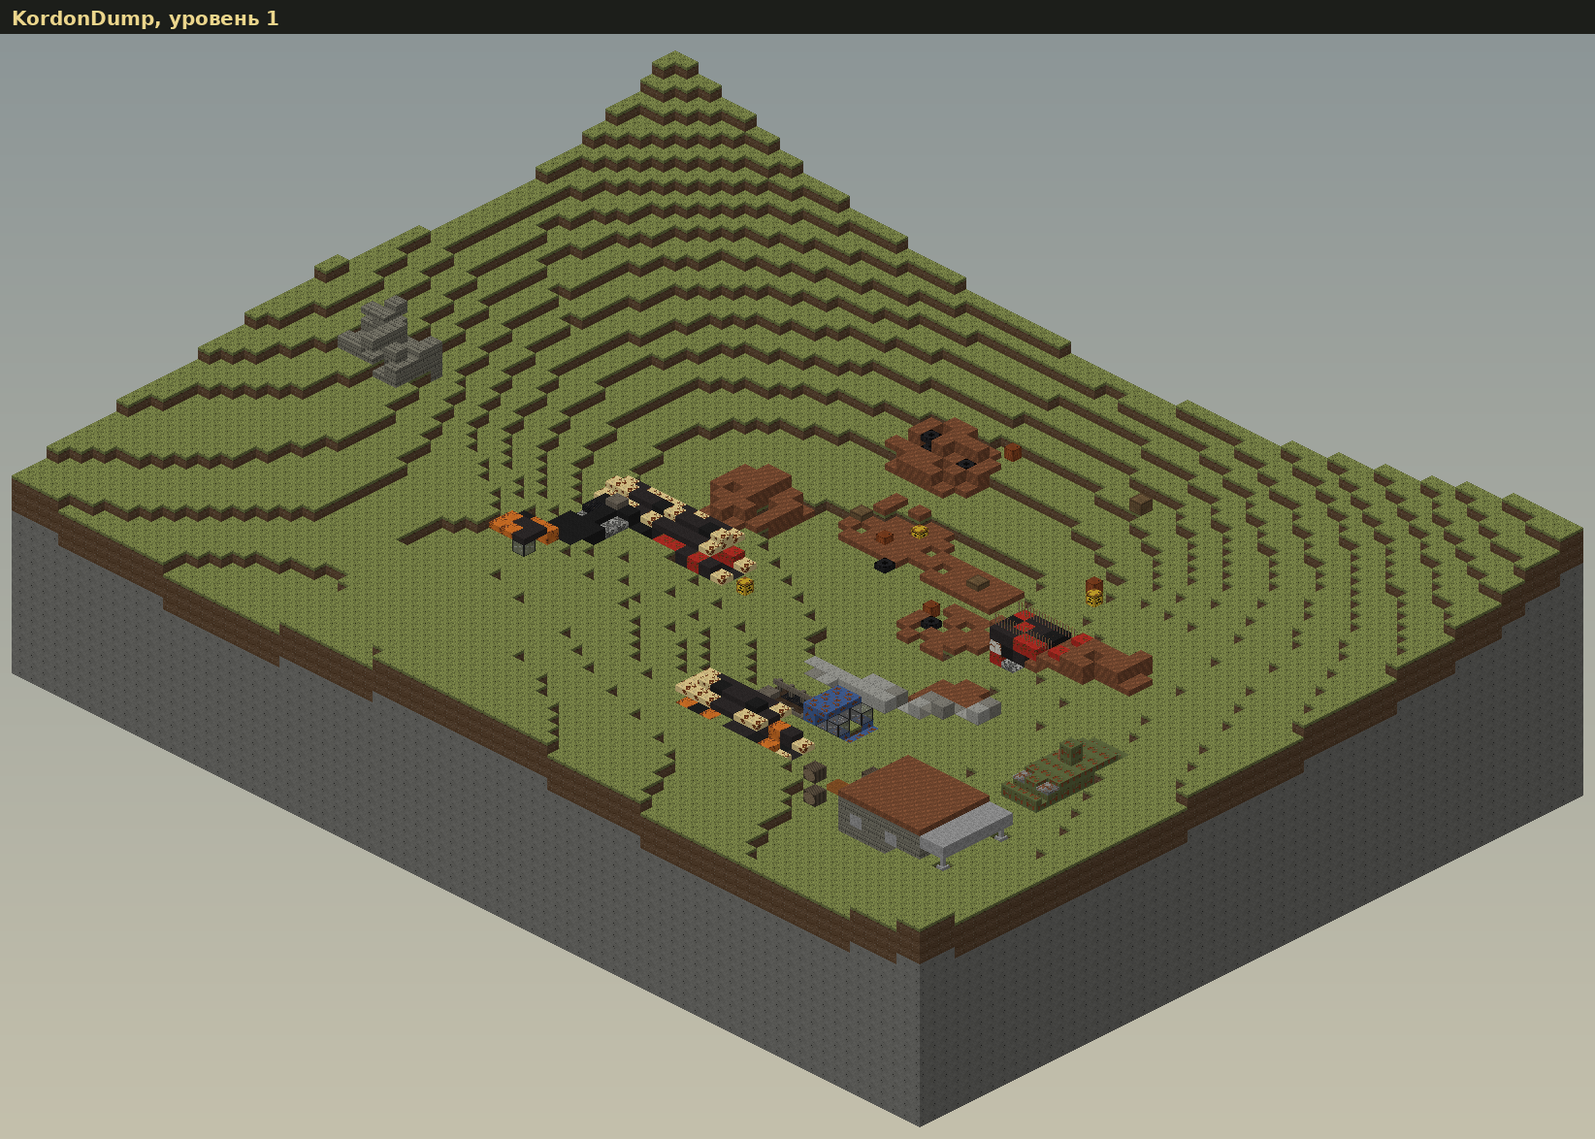
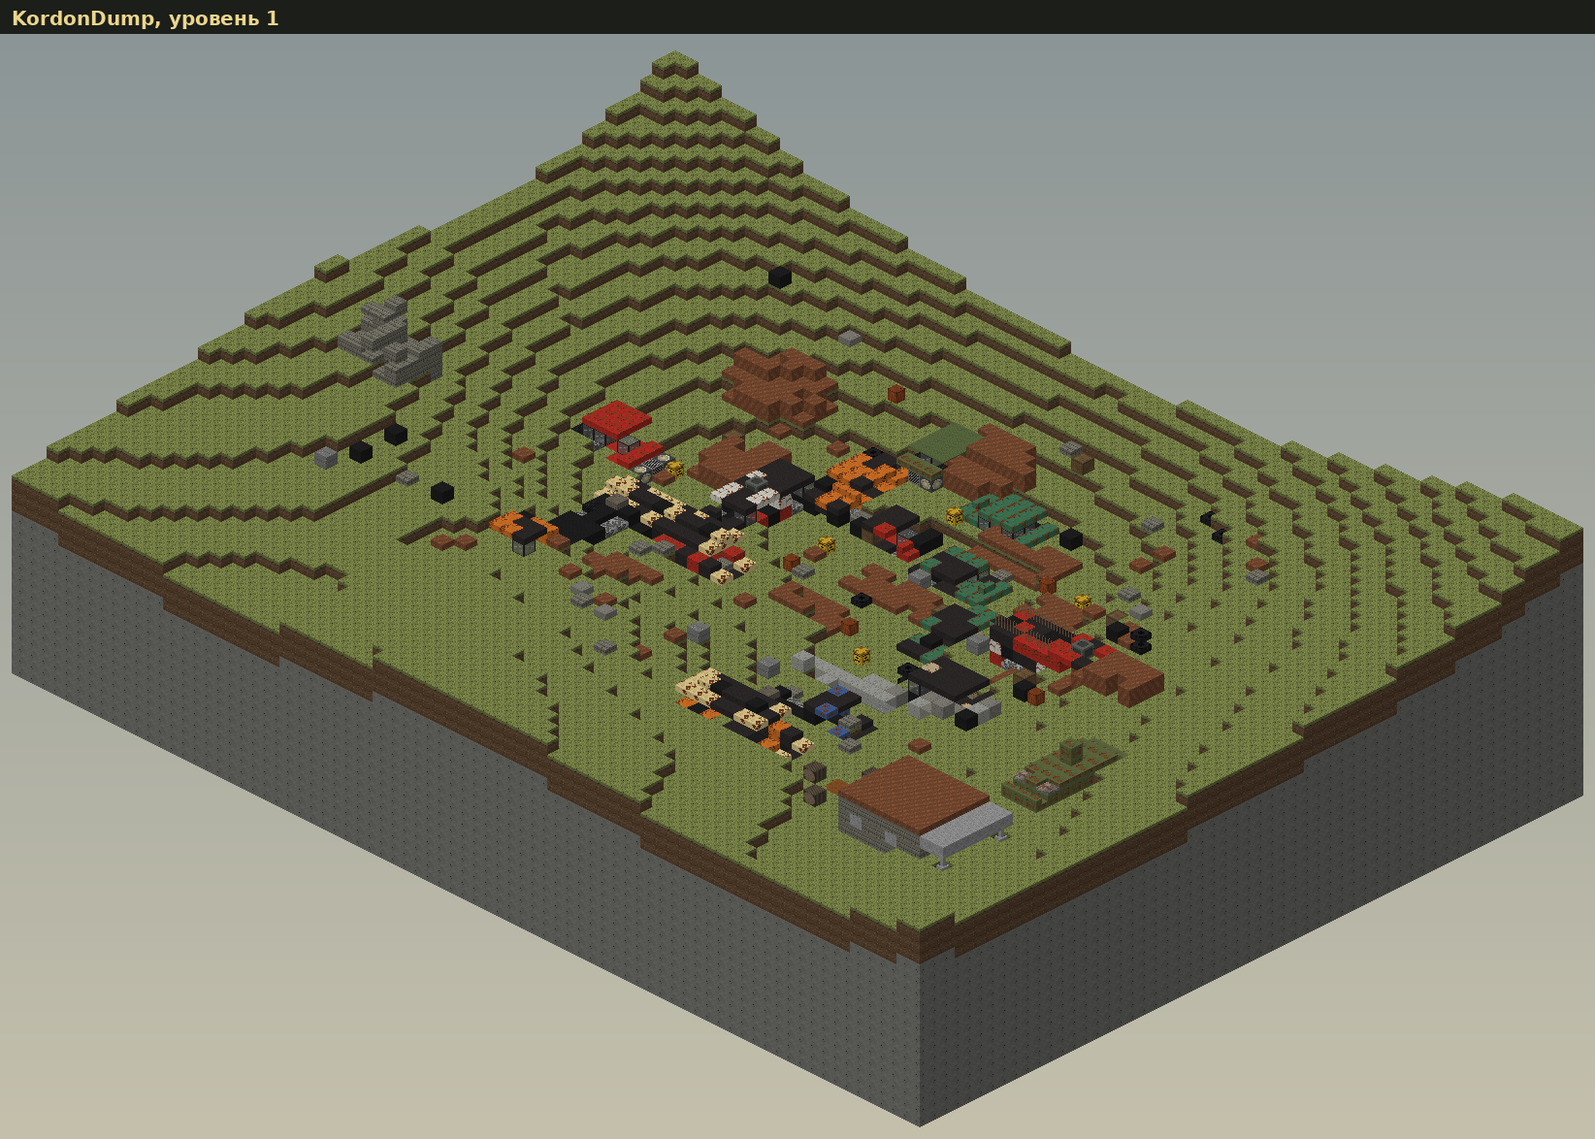
О12: у свалки нет уровней — детализация (15 остовов, мусор, бочки), уровни только у заставы
Claude-Session: https://claude.ai/code/session_01DZytqtgNmvhRRD3mvzLVqe

diff --git a/src/main/java/ru/stalkerzone/zonemap/build/KordonDump.java b/src/main/java/ru/stalkerzone/zonemap/build/KordonDump.java
@@ -14,8 +14,9 @@ import java.util.List;
  * остовы по следам обмера, кучи, бетонную полосу, бочки и шины на дне чаши, барак заставы с нарами, костёр,
  * вышку и мешки. Рельеф чаши и плато дна — дело площадки (узел 20, у «Программиста»): сборщик берёт землю у {@code ground}.
  *
- * <p>Уровень развития: 0 — брошенная стоянка (выбитые окна, без двери и света, костёр потушен), 1 — застава
- * (барак обжит), 2 — пост (мешки, тент), 3 — укрепление (вышка и колючка по краю).
+ * <p>У свалки уровней развития нет — это аномальная зона, она одинакова всегда и просто детализирована. Уровень
+ * (0–3) касается только заставы О12: 0 — брошенная стоянка (выбитые окна, без двери и света, костёр потушен),
+ * 1 — застава (барак обжит), 2 — пост (мешки), 3 — укрепление (вышка и колючка по краю).
  */
 public final class KordonDump {
     private KordonDump() {}
@@ -41,6 +42,9 @@ public final class KordonDump {
     /** Вышка на восточном краю чаши (уровень 3). */
     public static final int TX = -6, TZ = -102;
 
+    /** Обход по краю чаши. */
+    static final int[][] PATROL = {{-20, -106}, {-20, -92}, {-8, -91}, {-4, -98}, {-28, -128}};
+
     private static int hash(int x, int y, int z) {
         int h = x * 0x27d4eb2d ^ y * 0x61c88647 ^ z * 0x165667b1;
         h ^= h >>> 15; h *= 0x2c1b3c6d; h ^= h >>> 12;
@@ -50,37 +54,41 @@ public final class KordonDump {
     /** Построить свалку и заставу. Блоки — в мировых координатах. */
     public static void build(BlockSink b, int lvl) {
         lvl = Math.max(0, Math.min(3, lvl));
-        wrecks(b, lvl);
-        piles(b, lvl);
-        concreteStrip(b, lvl);
+        scatter(b);                 // мелочь первой — крупное (остовы, кучи) ставится поверх
         junk(b);
+        concreteStrip(b);
+        piles(b);
+        wrecks(b);
         hut(b, lvl);
         camp(b, lvl);
         if (lvl >= 2) bags(b);
         if (lvl >= 3) { tower(b); wire(b); }
-        for (int[] p : new int[][] {{-20, -106}, {-20, -92}, {-8, -91}, {-4, -98}, {-28, -126}})
+        for (int[] p : PATROL)
             b.mark("patrol", p[0], b.ground(p[0], p[1]) + 1, p[1]);
     }
 
     static int g(BlockSink b, int x, int z) { return b.ground(x, z); }
 
     /** Остовы по следам обмера: тип техники, центр, куда смотрит нос (0 — на +x, 90 — на +z), повреждение. */
-    private static void wrecks(BlockSink b, int lvl) {
+    private static void wrecks(BlockSink b) {
         Object[][] w = {
                 {"laz", -49, -115, 0, 2}, {"kamaz", -52, -108, 90, 2}, {"paz", -27, -99, 0, 2},
-                {"zil", -26, -104, 0, 1}, {"btr", -8, -107, 90, 1}, {"zil_fire", -20, -119, 0, 2}};
+                {"zil", -26, -104, 0, 2}, {"btr", -8, -107, 90, 1}, {"zil_fire", -20, -119, 0, 2},
+                {"raf", -49, -122, 90, 2}, {"zhiguli", -34, -125, 0, 2}, {"moskvich", -30, -120, 90, 2},
+                {"zaporozhets", -41, -126, 0, 2}, {"uaz", -44, -133, 90, 1}, {"niva", -23, -113, 0, 2},
+                {"tractor", -58, -120, 0, 1}, {"zhiguli", -37, -131, 180, 1}, {"moskvich", -46, -128, 270, 2}};
         long seed = 7000;
         for (Object[] o : w) {
             int x = (Integer) o[1], z = (Integer) o[2];
-            B v = new B(b, x, z, (Integer) o[3], seed++, lvl);
+            B v = new B(b, x, z, (Integer) o[3], seed++, 2);
             Vehicles.vehicle(v, (String) o[0], 0, 0, 0, null, (Integer) o[4]);
         }
     }
 
     /** Кучи ржавого листа (обмер: высота 1–2): центр, радиусы, высота. Сверху — полублок. */
-    private static void piles(BlockSink b, int lvl) {
-        int[][] p = {{-44, -133, 3, 2, 2}, {-49, -122, 2, 3, 2}, {-34, -125, 3, 1, 1}, {-30, -120, 3, 2, 1},
-                {-17, -119, 4, 1, 2}, {-23, -113, 2, 1, 1}, {-41, -126, 3, 2, 1}};
+    private static void piles(BlockSink b) {
+        int[][] p = {{-41, -134, 3, 2, 2}, {-52, -124, 2, 2, 2}, {-33, -129, 3, 1, 1}, {-36, -121, 3, 1, 1},
+                {-14, -118, 3, 1, 2}, {-26, -125, 2, 1, 1}, {-47, -108, 1, 2, 1}, {-38, -116, 2, 1, 1}, {-56, -131, 3, 2, 2}};
         for (int[] q : p) for (int x = q[0] - q[2]; x <= q[0] + q[2]; x++) for (int z = q[1] - q[3]; z <= q[1] + q[3]; z++) {
             double d = Math.pow((x - q[0]) / (double) (q[2] + 1), 2) + Math.pow((z - q[1]) / (double) (q[3] + 1), 2);
             if (d > 1 || hash(x, 3, z) % 5 == 0) continue;
@@ -96,20 +104,21 @@ public final class KordonDump {
     }
 
     /** Бетонная полоса (обмер: x −33..−18, z −111..−110, высота 1): сломанные плиты, проходы через каждые 5 блоков. */
-    private static void concreteStrip(BlockSink b, int lvl) {
+    private static void concreteStrip(BlockSink b) {
         for (int x = -33; x <= -18; x++) {
             if (Math.floorMod(x, 5) == 0) continue;
             for (int z = -111; z <= -110; z++) {
-                if (hash(x, 7, z) % (lvl == 0 ? 3 : 7) == 0) continue;
+                if (hash(x, 7, z) % 5 == 0) continue;
                 b.set(x, g(b, x, z) + 1, z, hash(x, 8, z) % 2 == 0 ? CONC_O : CONC);
             }
         }
     }
 
-    /** Бочки, шины и ящики на дне чаши (x −50..−26, z −136..−112): по хешу, в стороне от остовов. */
+    /** Бочки, шины, ящики и стопки шин на дне чаши: по хешу, в стороне от остовов. */
     private static void junk(BlockSink b) {
-        for (int i = 0; i < 16; i++) {
-            int x = -50 + hash(i, 1, 11) % 25, z = -136 + hash(i, 2, 12) % 24;
+        for (int i = 0; i < 40; i++) {
+            int x = -56 + hash(i, 1, 11) % 40, z = -138 + hash(i, 2, 12) % 28;
+            if (g(b, x, z) > g(b, -40, -124) + 5) continue;           // выше дна чаши — не сбрасывают
             if (z >= -118 && z <= -102 && x <= -43) continue;      // остов автобуса и КамАЗа
             if (z >= -111 && z <= -110) continue;                     // бетонная полоса
             int gy = g(b, x, z) + 1;
@@ -118,6 +127,24 @@ public final class KordonDump {
                 case 1 -> b.set(x, gy, z, RAD);
                 case 2 -> { b.set(x, gy, z, TIRES); if (i % 8 == 2) b.set(x, gy + 1, z, TIRES); }
                 default -> b.set(x, gy, z, WCRATE);
+            }
+        }
+    }
+
+    /** Мелкий мусор по всей чаше: листы металла, доски, бетонные обломки, кости техники (двери, капоты). */
+    private static void scatter(BlockSink b) {
+        outer:
+        for (int i = 0; i < 90; i++) {
+            int x = -66 + hash(i, 21, 5) % 50, z = -138 + hash(i, 22, 6) % 40;
+            if (z >= -111 && z <= -110) continue;
+            for (int[] pp : PATROL) if (Math.abs(x - pp[0]) <= 1 && Math.abs(z - pp[1]) <= 1) continue outer;
+            if (x >= HX0 - 6 && x <= HX1 + 3 && z >= HZ0 - 4 && z <= HZ1 + 4) continue;     // двор заставы чистый
+            int gy = g(b, x, z) + 1;
+            switch (hash(i, 23, 7) % 5) {
+                case 0, 1 -> b.set(x, gy, z, RUST + "_slab[type=bottom]");
+                case 2 -> b.set(x, gy, z, PLANKS + "_slab[type=bottom]");
+                case 3 -> b.set(x, gy, z, CONC_O + "_slab[type=bottom]");
+                default -> b.set(x, gy, z, hash(i, 24, 8) % 2 == 0 ? "minecraft:coal_block" : "stalkerzone:zm_metal_plate");
             }
         }
     }

diff --git a/docs/kordon_objects/13-dump-o12.md b/docs/kordon_objects/13-dump-o12.md
@@ -6,17 +6,18 @@
 |---|---|---|
 | Остов у западного края | x −54..−44, z −116..−113 (техника 214 + ржавый 209, h 3) и колонка x −54..−50, z −113..−104 (h 3) | ЛАЗ-695 (−49, −115) вдоль x и КамАЗ (−52, −108) вдоль z, сгоревшие |
 | Остов у бетонной полосы | x −31..−23, z −100..−98 (h 2) и x −30..−22, z −106..−102 (h 2–3) | ПАЗ-672 (−27, −99), ЗИЛ-130 (−26, −104) |
+| Малые остовы (по низким кучам обмера) | РАФ (−49, −122), «Жигули» (−34, −125) и (−37, −131), «Москвич» (−30, −120) и (−46, −128), «Запорожец» (−41, −126), УАЗ (−44, −133), «Нива» (−23, −113), трактор (−58, −120) | то же, разной ориентации, сгоревшие/выпотрошенные |
 | Остов у заставы | x −10..−5, z −111..−104 (техника 214, h 1–2) | БТР-70 (−8, −107) вдоль z |
 | Пожарная АЦ | x −20..−14, z −120..−118 (h 1–2) | ЗИЛ-130 пожарный (−20, −119) |
 | Кучи ржавого листа | h 1–2: (−44, −133), (−49, −122), (−34, −125), (−30, −120), (−17, −119), (−23, −113), (−41, −126) | эллипсы из `zm_rust_sheet`, сверху полублок |
 | Бетонная полоса | x −33..−18, z −111..−110, h 1 (203) | сломанные плиты `zm_concrete`/`_old`, проходы каждые 5 блоков |
 | Груда досок | x −72..−68, z −113..−110, h до 3 (204) | доски 1–3, часть полублоков |
 | Барак О12 + тент | x −15..−5, z −101..−93, h до 4 (204 доски + 211) | x −14..−8, z −100..−95: стены 3, плоская кровля из ржавого листа, серый тент-козырёк на восточной стороне, дверь на запад (−14, −97), нары 4, печка, стол, ящики |
-| Дно чаши | — (по модели 01-malyi-kordon) | 16 бочек (ржавые, радиоактивные), шин, ящиков по хешу |
+| Дно чаши и склоны | — (по модели 01-malyi-kordon) | 40 бочек (ржавые, радиоактивные), шин (местами стопкой), ящиков и ≈ 90 обломков (листы металла, доски, бетон, уголь, плиты) по хешу, двор заставы и точки обхода чистые |
 
 Заставу дополняют (по модели): костёр (−18, −98) с чурбаками, мешки (−21, z −104..−91, проход z −99..−95), вышка (−6, −102) и колючка по северному краю (z −138).
 
-Уровни: 0 — брошенная стоянка (выбитые окна, без двери, света и подстилок, костёр потушен), 1 — застава (барак обжит), 2 — пост (мешки у костра и барака), 3 — укрепление (вышка 6 блоков с лестницей и часовым, колючка).
+**У свалки уровней нет** — это аномальная зона, она одинакова на любом уровне и просто детализирована (остовы, кучи, мусор не зависят от `lvl`). Уровни 0–3 касаются только заставы О12: 0 — брошенная стоянка (выбитые окна, без двери, света и подстилок, костёр потушен), 1 — застава (барак обжит), 2 — пост (мешки у костра и барака), 3 — укрепление (вышка 6 блоков с лестницей и часовым, колючка).
 
 Рабочие места: `cook` (−17, −98), `rest` ×3 (у костра и в бараке), `bed` ×4 (в бараке), `work` у стола, `gate` (−22, −97), `guard` (−19, −94) и на вышке (уровень 3), `patrol` ×5 по краю чаши.
 

diff --git a/docs/claude/11-log-builder.md b/docs/claude/11-log-builder.md
@@ -5,7 +5,7 @@
 ---
 
 ## 06.11.2026 (вечер) · свалка техники А6 + застава О12 · сделан · PR (ветка `builder/o12-dump`)
-- **Сборщик `zonemap/build/KordonDump`** по вокселям `.szl` пользователя (894 797 байт): воксели в чаше редкие, поэтому — остовы техники по следам обмера (ЛАЗ, КамАЗ, ПАЗ, ЗИЛ, БТР, пожарная АЦ), кучи ржавого листа, бетонная полоса x −33..−18, груда досок на западе, бочки/шины/ящики на дне, барак О12 (x −14..−8, z −100..−95, тент, дверь на запад, 4 нары), костёр, мешки, вышка и колючка на уровне 3. Границы `CLEAR` x −74..−3, z −140..−90 (с остальными сборщиками не пересекаются). Таблица и места — `docs/kordon_objects/13-dump-o12.md`; картинки — `previews/13-dump-o12*.png`.
+- **Сборщик `zonemap/build/KordonDump`** по вокселям `.szl` пользователя (894 797 байт): воксели в чаше редкие, поэтому — **свалка без уровней** (аномальная зона — одинакова всегда, по замечанию пользователя; уровни 0–3 — только у заставы О12): 15 остовов по следам обмера (ЛАЗ, КамАЗ, ПАЗ, ЗИЛ, БТР, пожарная АЦ, РАФ, легковые, трактор), кучи ржавого листа, бетонная полоса x −33..−18, груда досок на западе, бочки/шины/ящики на дне, барак О12 (x −14..−8, z −100..−95, тент, дверь на запад, 4 нары), костёр, мешки, вышка и колючка на уровне 3. Границы `CLEAR` x −74..−3, z −140..−90 (с остальными сборщиками не пересекаются). Таблица и места — `docs/kordon_objects/13-dump-o12.md`; картинки — `previews/13-dump-o12*.png`.
 - Тест `KordonDumpTest` (уровни 0–3): блоки в границах, места на полу, от `gate` пешком до нар, костра, стола; потолок барака; часовой на вышке. Все тесты зелёные.
 - **Не подключено к миру (запрос «Программисту»):** площадка `dump` (узел 20, плато дна чаши x −54..−22, z −134..−108, AUTO, откос 6) и регистрация: `new Site("dump", 20).plateau(-54, -134, -22, -108, Site.AUTO, 6).build(of(KordonDump.CLEAR, KordonDump::build))` — в `Prefabs.SITES` и узел в симуляции; без узла 20 площадки в `Prefabs.SITES` не добавлял (как с вагончиком О7).
 - Проверить в игре: чек-лист `docs/checklist/o12-dump.md`. Следующее у «Строителя»: логово Л3 «лес у свалки техники».

diff --git a/docs/checklist/o12-dump.md b/docs/checklist/o12-dump.md
@@ -2,7 +2,7 @@
 
 | № | Действие | Ожидаемо |
 |---|---|---|
-| О12.1 | Новый мир, `/tp @s -40 ~ -118`, осмотреть чашу | остовы автобуса и КамАЗа у западного края, кучи ржавого листа, бочки и шины на дне, бетонная полоса с проходами; воксели оригинала внутри границ x −74..−3, z −140..−90 не торчат |
+| О12.1 | Новый мир, `/tp @s -40 ~ -118`, осмотреть чашу | ≈ 15 остовов (автобус и КамАЗ у западного края, легковые, трактор),  кучи ржавого листа, бочки и шины на дне, бетонная полоса с проходами; воксели оригинала внутри границ x −74..−3, z −140..−90 не торчат |
 | О12.2 | `/tp @s -14 ~ -92`, подойти к бараку заставы | дощатый барак с ржавой кровлей и тентом, дверь на запад вровень с землёй, внутри 4 подстилки, печка, стол; потолок выше головы |
 | О12.3 | Костёр (−18, −98) и вышка (−6, −102) | костёр горит; на уровне 3 — вышка с лестницей, часовой наверху |
 | О12.4 | Одиночки узла 20/О12 после запуска симуляции | NPC занимают нары, костёр, патруль по краю чаши; не застревают в остовах |
